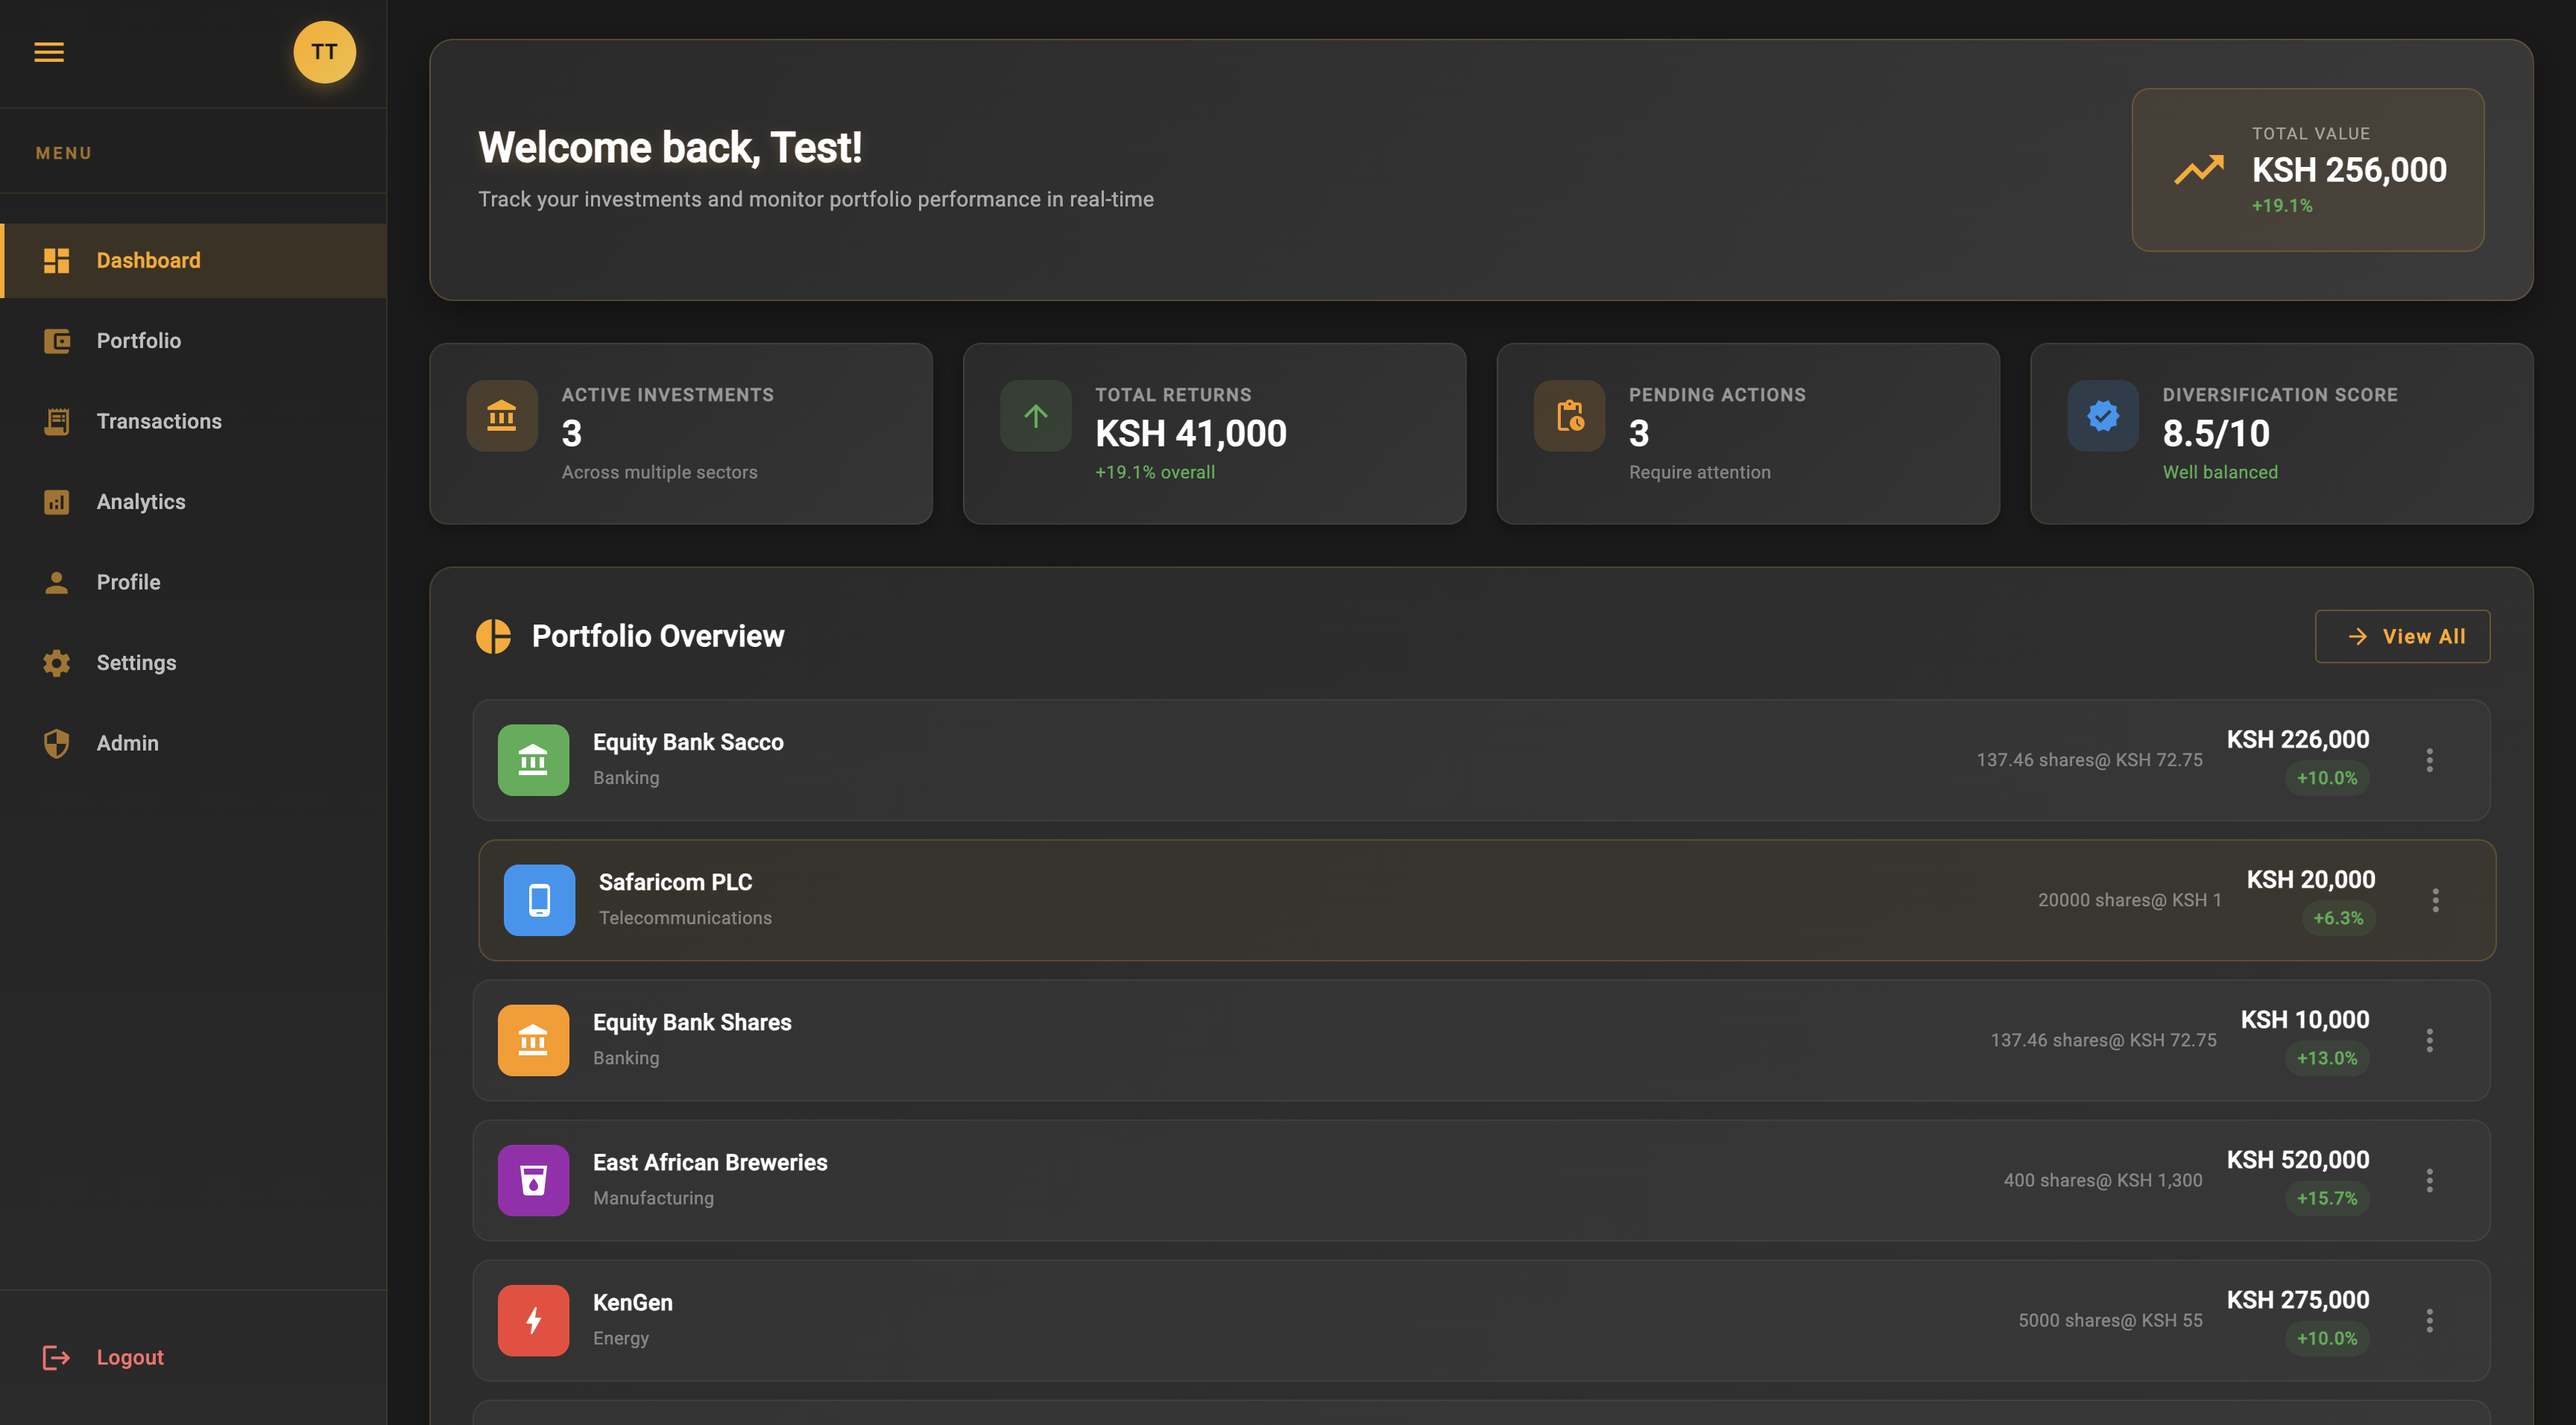
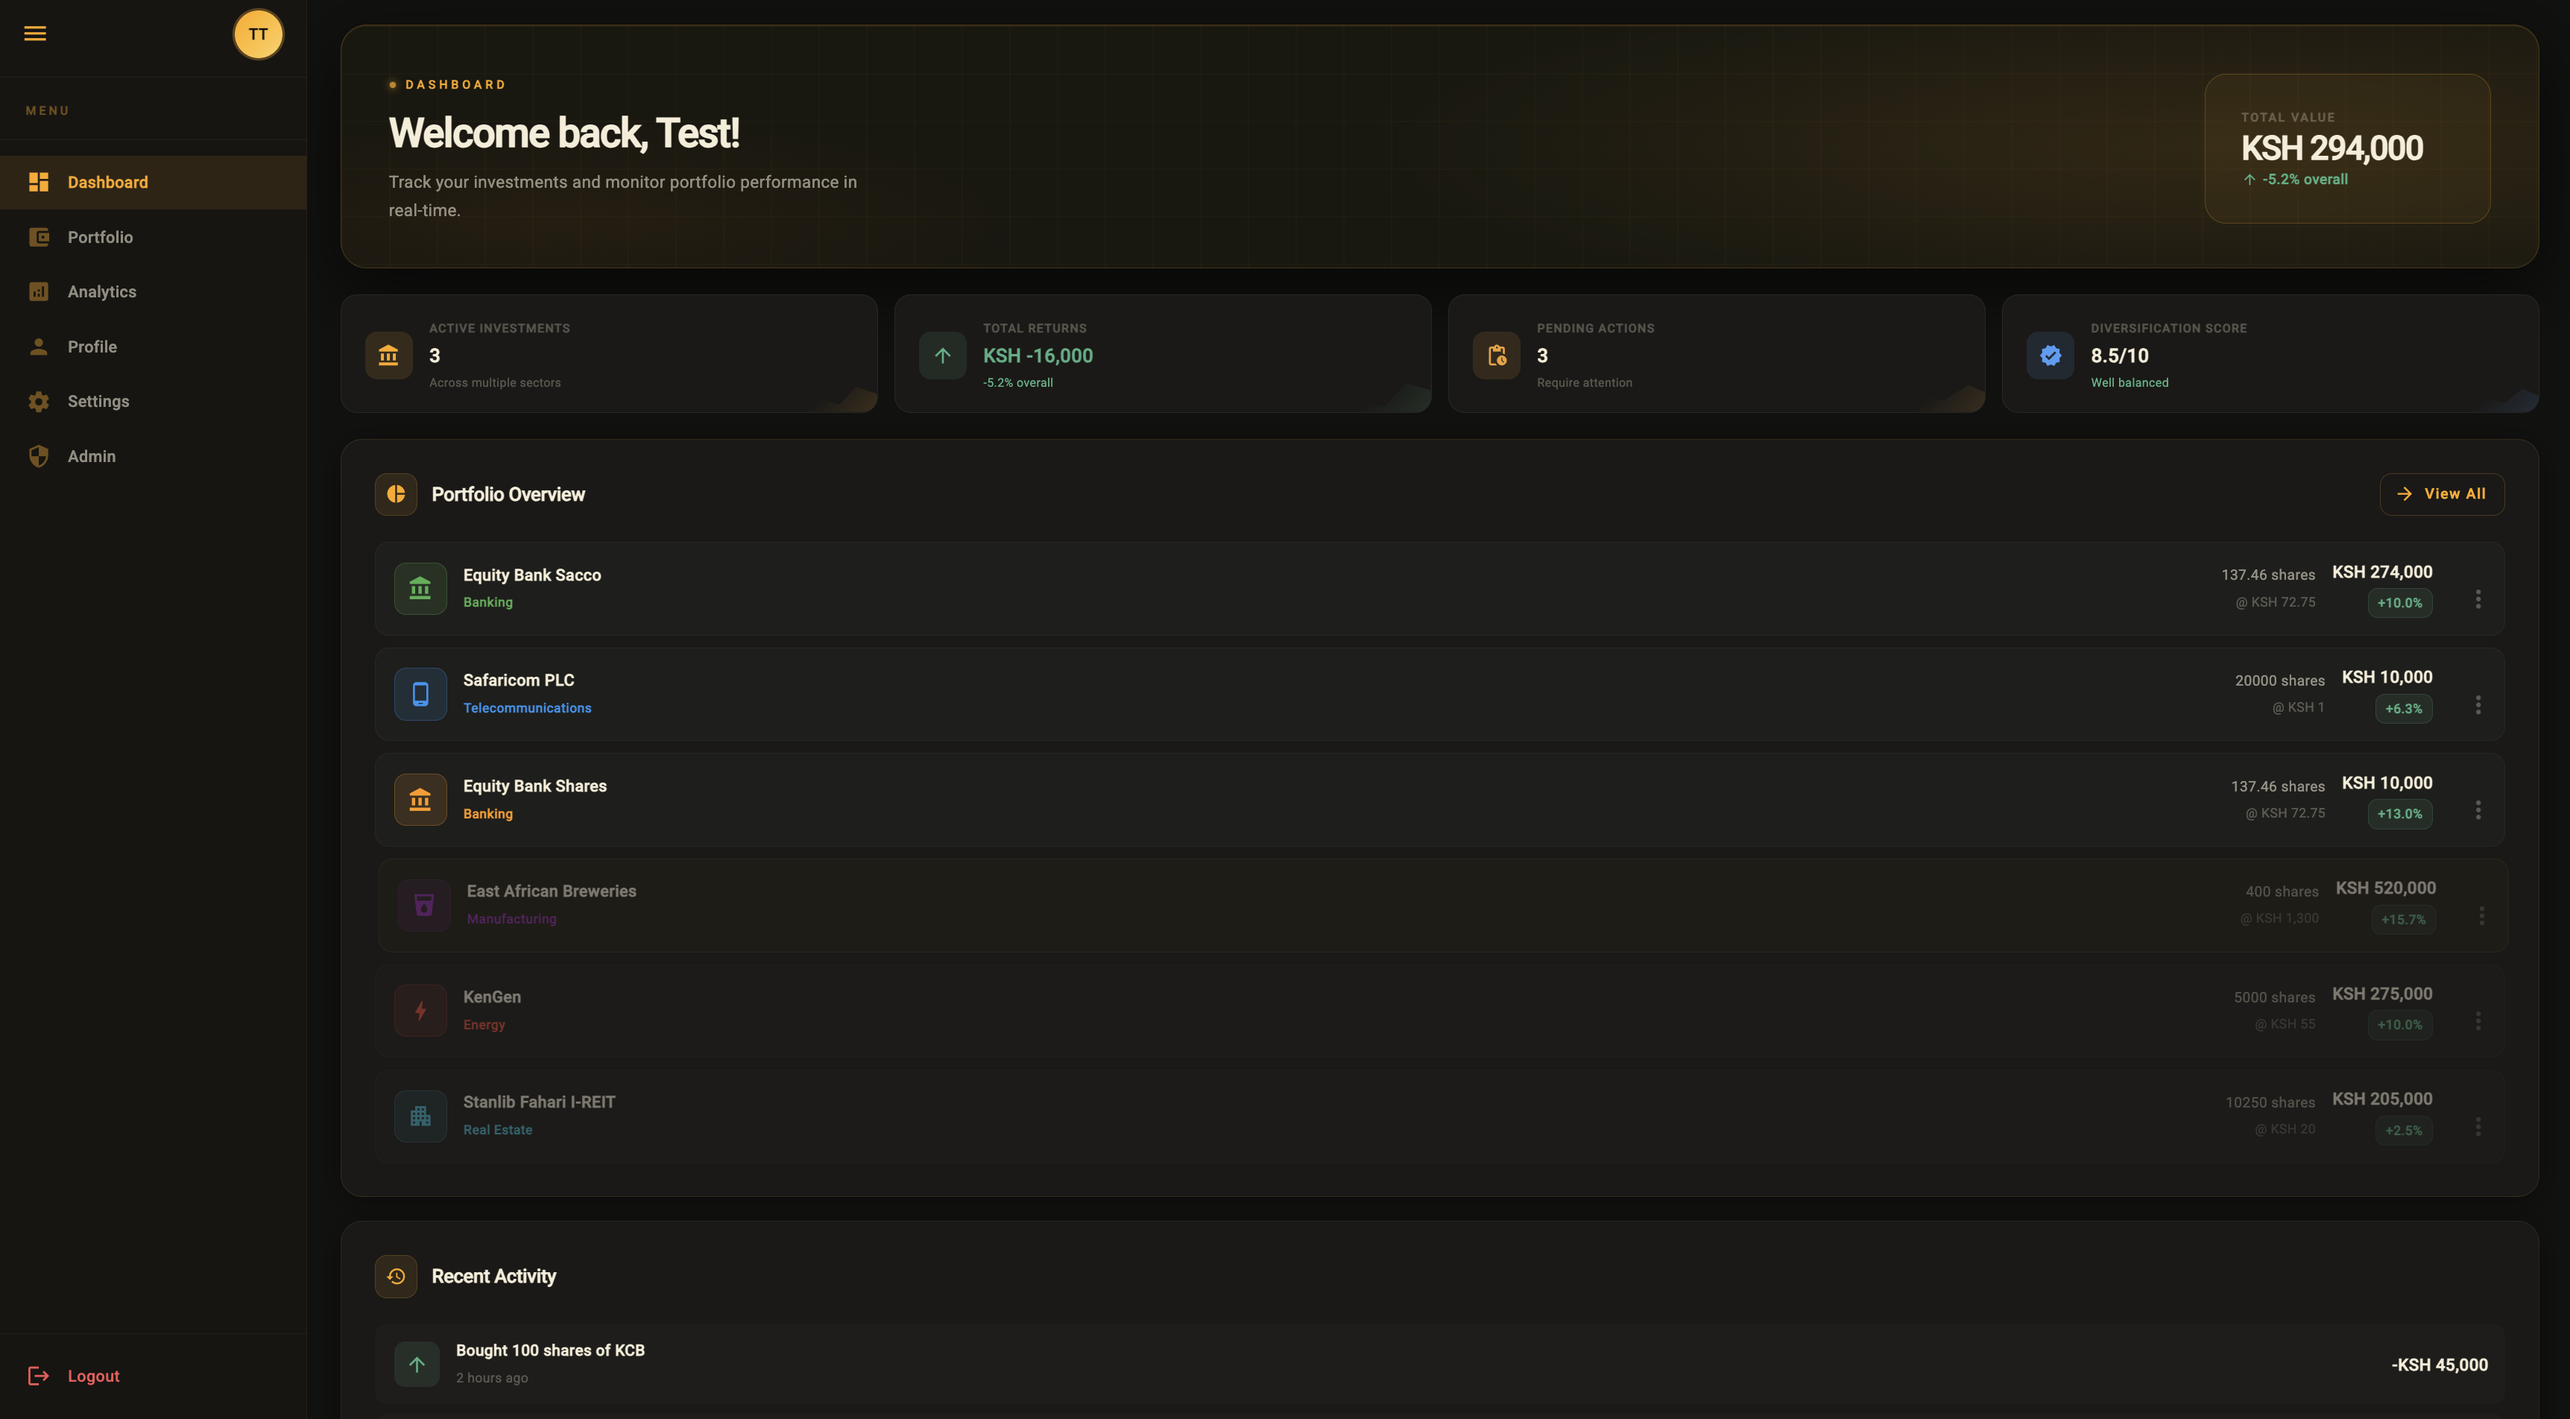
Original version

diff --git a/src/app/about/about.component.html b/src/app/about/about.component.html
@@ -6,7 +6,7 @@
         <div class="row">
             <div class="col-lg-4 col-md-12" data-aos="fade-right">
                 <picture>
-                    <img src="assets/images/janetimage2.jpg" alt="Proile Photo" class="img-fluid">
+                    <img src="assets/images/professional_photo.jpg" alt="Professional Photo" class="img-fluid">
                 </picture>
                 <div class="d-flex justify-content-center">
                     <a class="btn-social-media" href="https://www.linkedin.com/in/ceereMugambi/" rel="tooltip"
@@ -22,7 +22,7 @@
             <div class="col-lg-8  col-md-12 pt-4 pt-lg-0" data-aos="fade-left">
                 <h3>Job Title</h3>
                 <p class="font-italic">
-                    Hi there! I'm Janet Ceere Mugambi, I'm a passionate and detail-oriented <b>Front-End Web Developer</b> specializing in building dynamic, responsive, and user-friendly applications with Angular. With a keen eye for design and a commitment to delivering seamless user experiences.
+                    Hi there! I'm Janet Ceere Mugambi, I'm a passionate and detail-oriented <b>Full-Stack Developer</b> specializing in building dynamic, responsive, and user-friendly applications with Angular. With a keen eye for design and a commitment to delivering seamless user experiences.
                     <br>When I’m not coding, you’ll find me diving into the latest web development trends, brainstorming creative solutions for complex challenges, or collaborating with cross-functional teams to bring ideas to life.
                     <br><b>Let’s create something exceptional together!</b>
                 </p>
